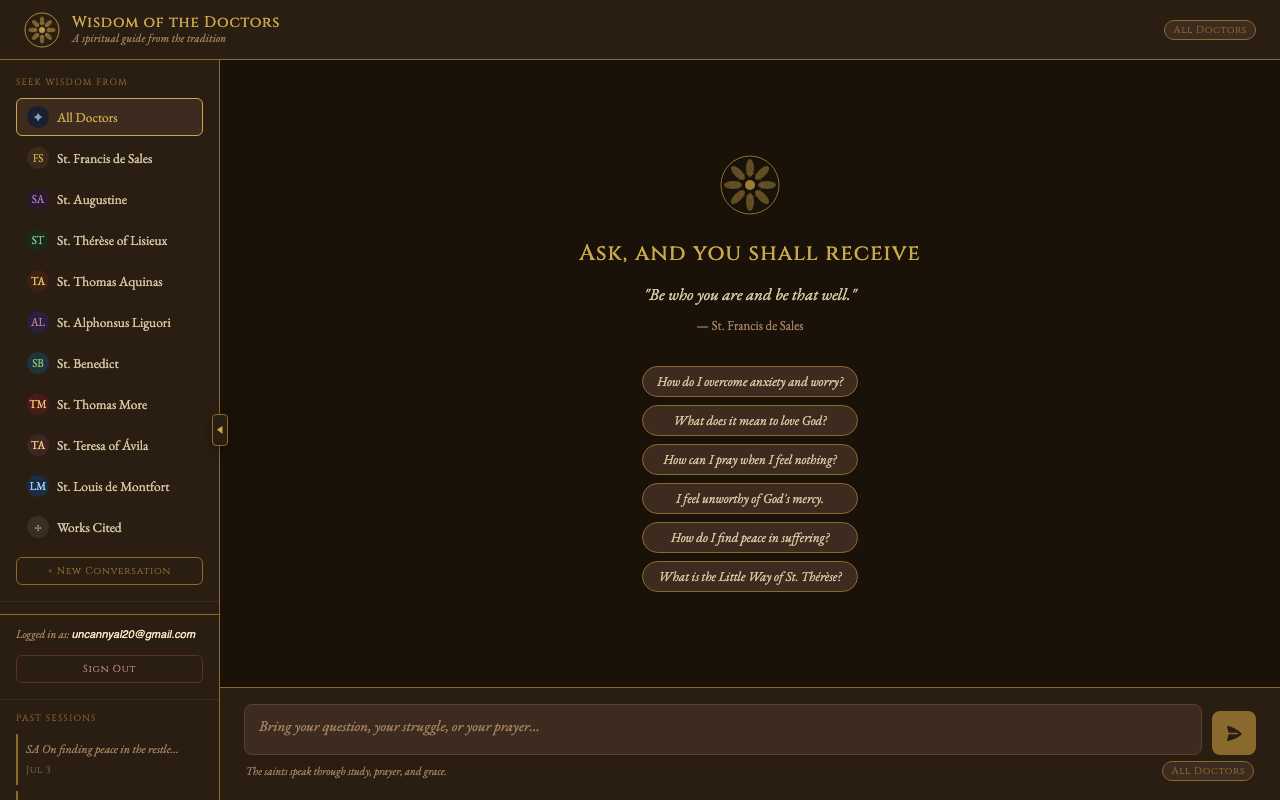
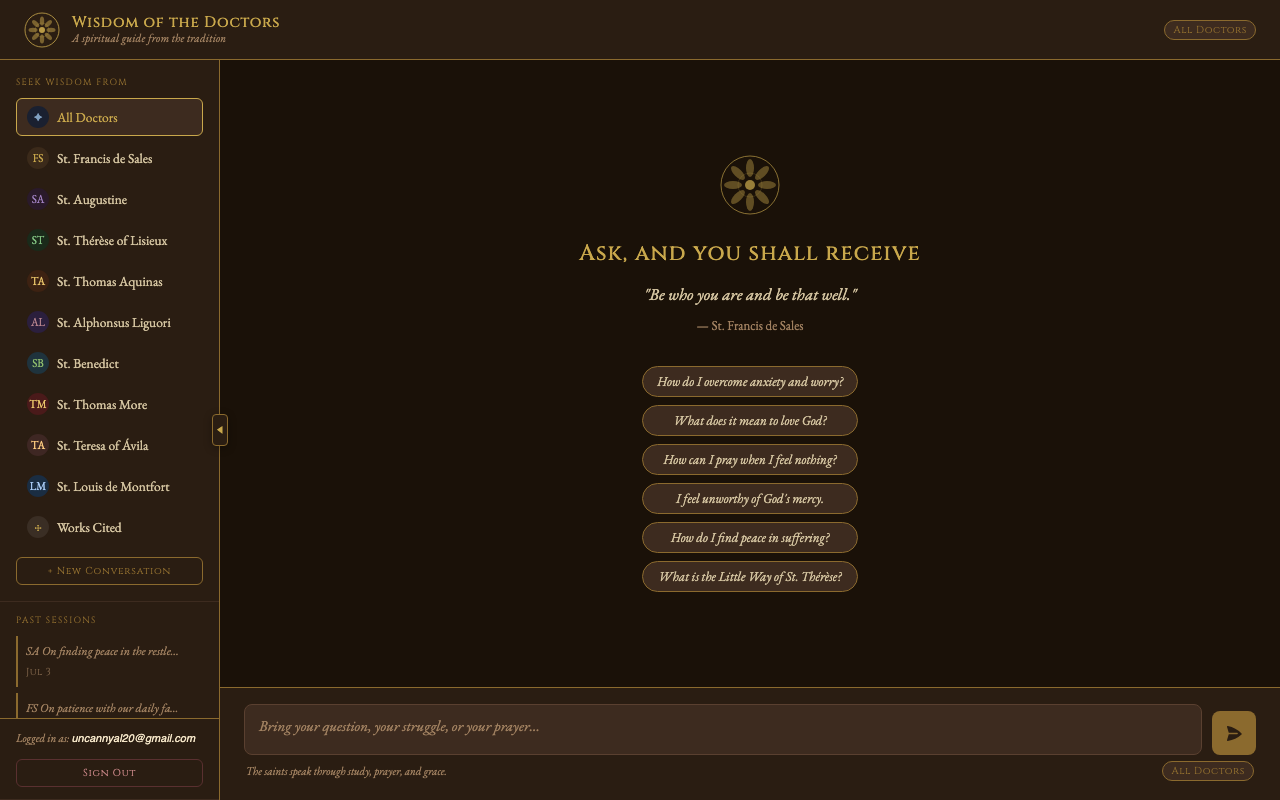
Pin Google login / auth profile section to the absolute bottom of the sidebar

Changed region(s): [[0.0, 0.875, 0.1562, 0.9688], [0.0, 0.75, 0.1562, 0.8438]]

diff --git a/wisdom-of-the-doctors.html b/wisdom-of-the-doctors.html
@@ -103,14 +103,20 @@
     border-right: 1px solid var(--gold-dim);
     display: flex;
     flex-direction: column;
-    overflow-y: auto;
-    scrollbar-width: thin;
-    scrollbar-color: var(--gold-dim) transparent;
+    overflow: hidden;
     transition: width 0.25s ease, border-right-color 0.25s ease;
   }
-  .sidebar::-webkit-scrollbar { width: 4px; }
-  .sidebar::-webkit-scrollbar-track { background: transparent; }
-  .sidebar::-webkit-scrollbar-thumb { background: var(--gold-dim); border-radius: 2px; }
+  .sidebar-content {
+    flex: 1;
+    overflow-y: auto;
+    display: flex;
+    flex-direction: column;
+    scrollbar-width: thin;
+    scrollbar-color: var(--gold-dim) transparent;
+  }
+  .sidebar-content::-webkit-scrollbar { width: 4px; }
+  .sidebar-content::-webkit-scrollbar-track { background: transparent; }
+  .sidebar-content::-webkit-scrollbar-thumb { background: var(--gold-dim); border-radius: 2px; }
   .sidebar.collapsed {
     width: 0;
     border-right-color: transparent;
@@ -863,61 +869,63 @@
 
   <!-- SIDEBAR -->
   <aside class="sidebar">
-    <div class="sidebar-section">
-      <div class="sidebar-label">Seek Wisdom From</div>
-      <button class="doctor-btn active" data-doctor="all" onclick="setDoctor(this)">
-        <span class="doctor-icon icon-all">✦</span>All Doctors
-      </button>
-      <button class="doctor-btn" data-doctor="sales" onclick="setDoctor(this)">
-        <span class="doctor-icon icon-sales">FS</span>St. Francis de Sales
-      </button>
-      <button class="doctor-btn" data-doctor="augustine" onclick="setDoctor(this)">
-        <span class="doctor-icon icon-aug">SA</span>St. Augustine
-      </button>
-      <button class="doctor-btn" data-doctor="therese" onclick="setDoctor(this)">
-        <span class="doctor-icon icon-therese">ST</span>St. Thérèse of Lisieux
-      </button>
-      <button class="doctor-btn" data-doctor="aquinas" onclick="setDoctor(this)">
-        <span class="doctor-icon icon-aquinas">TA</span>St. Thomas Aquinas
-      </button>
-      <button class="doctor-btn" data-doctor="liguori" onclick="setDoctor(this)">
-        <span class="doctor-icon icon-liguori">AL</span>St. Alphonsus Liguori
-      </button>
-      <button class="doctor-btn" data-doctor="benedict" onclick="setDoctor(this)">
-        <span class="doctor-icon icon-benedict">SB</span>St. Benedict
-      </button>
-      <button class="doctor-btn" data-doctor="more" onclick="setDoctor(this)">
-        <span class="doctor-icon icon-more">TM</span>St. Thomas More
-      </button>
-      <button class="doctor-btn" data-doctor="teresa" onclick="setDoctor(this)">
-        <span class="doctor-icon icon-teresa">TA</span>St. Teresa of Ávila
-      </button>
-      <button class="doctor-btn" data-doctor="montfort" onclick="setDoctor(this)">
-        <span class="doctor-icon icon-montfort">LM</span>St. Louis de Montfort
-      </button>
-      <button class="doctor-btn" id="sources-nav-btn" onclick="showPage('sources')">
-        <span class="doctor-icon icon-sources">☩</span>Works Cited
-      </button>
-      <button class="new-session-btn" onclick="newConversation()">+ New Conversation</button>
+    <div class="sidebar-content">
+      <div class="sidebar-section">
+        <div class="sidebar-label">Seek Wisdom From</div>
+        <button class="doctor-btn active" data-doctor="all" onclick="setDoctor(this)">
+          <span class="doctor-icon icon-all">✦</span>All Doctors
+        </button>
+        <button class="doctor-btn" data-doctor="sales" onclick="setDoctor(this)">
+          <span class="doctor-icon icon-sales">FS</span>St. Francis de Sales
+        </button>
+        <button class="doctor-btn" data-doctor="augustine" onclick="setDoctor(this)">
+          <span class="doctor-icon icon-aug">SA</span>St. Augustine
+        </button>
+        <button class="doctor-btn" data-doctor="therese" onclick="setDoctor(this)">
+          <span class="doctor-icon icon-therese">ST</span>St. Thérèse of Lisieux
+        </button>
+        <button class="doctor-btn" data-doctor="aquinas" onclick="setDoctor(this)">
+          <span class="doctor-icon icon-aquinas">TA</span>St. Thomas Aquinas
+        </button>
+        <button class="doctor-btn" data-doctor="liguori" onclick="setDoctor(this)">
+          <span class="doctor-icon icon-liguori">AL</span>St. Alphonsus Liguori
+        </button>
+        <button class="doctor-btn" data-doctor="benedict" onclick="setDoctor(this)">
+          <span class="doctor-icon icon-benedict">SB</span>St. Benedict
+        </button>
+        <button class="doctor-btn" data-doctor="more" onclick="setDoctor(this)">
+          <span class="doctor-icon icon-more">TM</span>St. Thomas More
+        </button>
+        <button class="doctor-btn" data-doctor="teresa" onclick="setDoctor(this)">
+          <span class="doctor-icon icon-teresa">TA</span>St. Teresa of Ávila
+        </button>
+        <button class="doctor-btn" data-doctor="montfort" onclick="setDoctor(this)">
+          <span class="doctor-icon icon-montfort">LM</span>St. Louis de Montfort
+        </button>
+        <button class="doctor-btn" id="sources-nav-btn" onclick="showPage('sources')">
+          <span class="doctor-icon icon-sources">☩</span>Works Cited
+        </button>
+        <button class="new-session-btn" onclick="newConversation()">+ New Conversation</button>
+      </div>
+
+      <div class="saved-list">
+        <div class="saved-label">Past Sessions</div>
+        <div id="sessions-container">
+          <p class="saved-empty">Your conversations will appear here.</p>
+        </div>
+      </div>
+
+      <div class="saved-list" style="margin-top: 1.5rem; border-top: 1px solid #3D2B1F; padding-top: 1rem;">
+        <div class="saved-label">Saved Insights</div>
+        <div id="insights-container">
+          <p class="saved-empty">Saved insights will appear here.</p>
+        </div>
+      </div>
     </div>
 
-    <!-- AUTH SECTION -->
-    <div class="sidebar-section" id="auth-section" style="border-top: 1px solid var(--gold-dim); padding-top: 12px; margin-top: 12px; display: flex; flex-direction: column; gap: 8px;">
+    <!-- AUTH SECTION (Pinned to the bottom) -->
+    <div class="sidebar-section" id="auth-section" style="border-top: 1px solid var(--gold-dim); padding: 12px 1rem; display: flex; flex-direction: column; gap: 8px; flex-shrink: 0; background: var(--walnut);">
       <!-- Dynamically populated -->
-    </div>
-
-    <div class="saved-list">
-      <div class="saved-label">Past Sessions</div>
-      <div id="sessions-container">
-        <p class="saved-empty">Your conversations will appear here.</p>
-      </div>
-    </div>
-
-    <div class="saved-list" style="margin-top: 1.5rem; border-top: 1px solid #3D2B1F; padding-top: 1rem;">
-      <div class="saved-label">Saved Insights</div>
-      <div id="insights-container">
-        <p class="saved-empty">Saved insights will appear here.</p>
-      </div>
     </div>
   </aside>
 